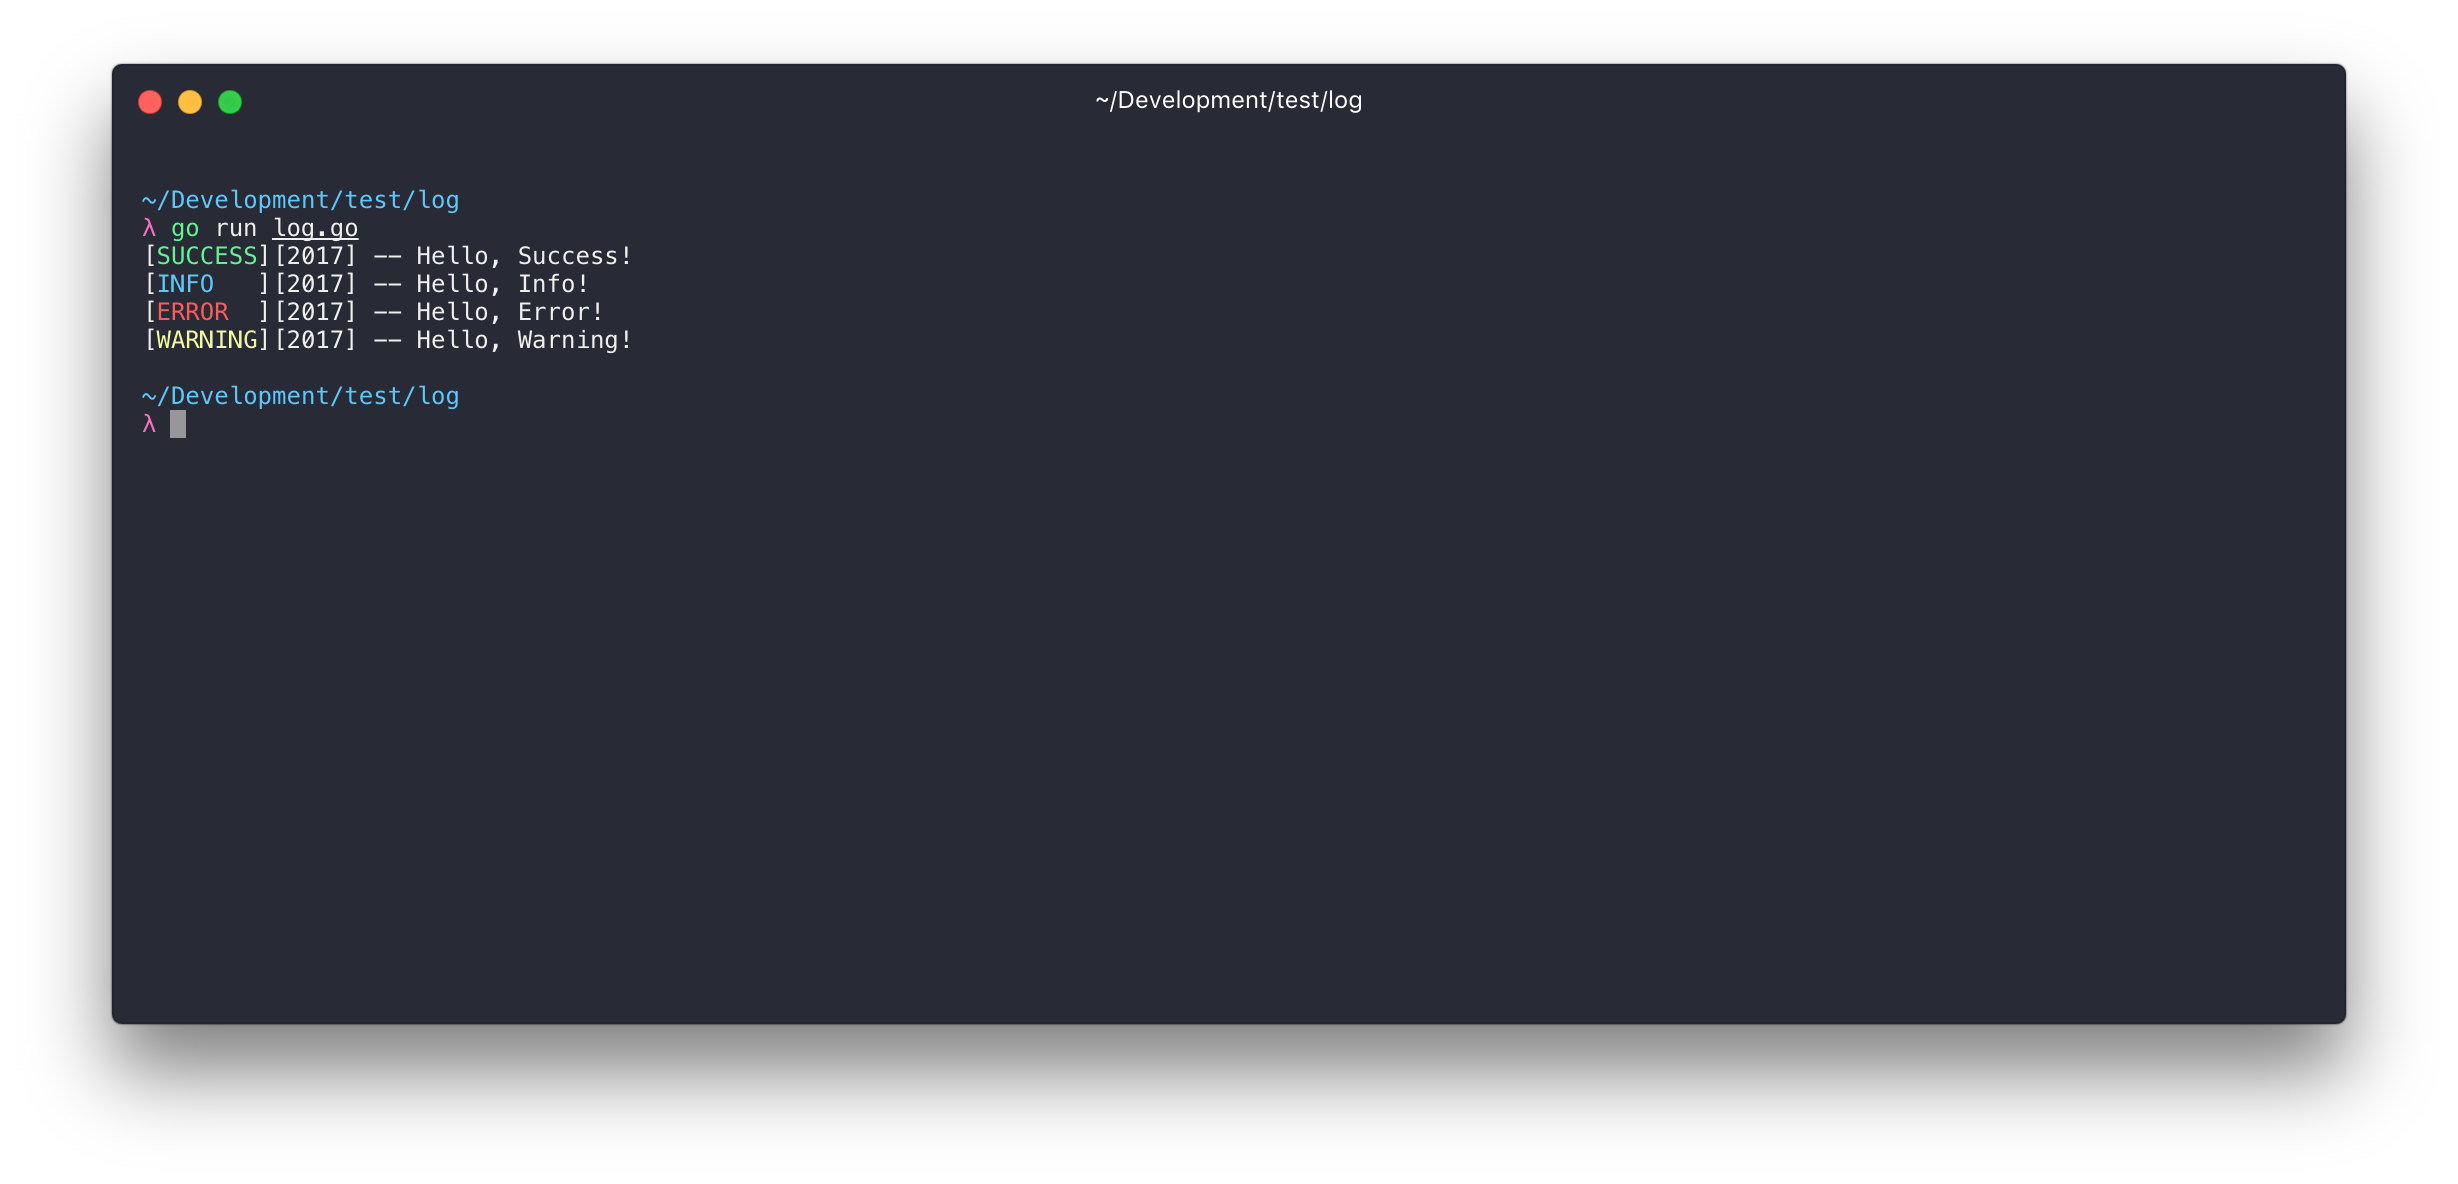
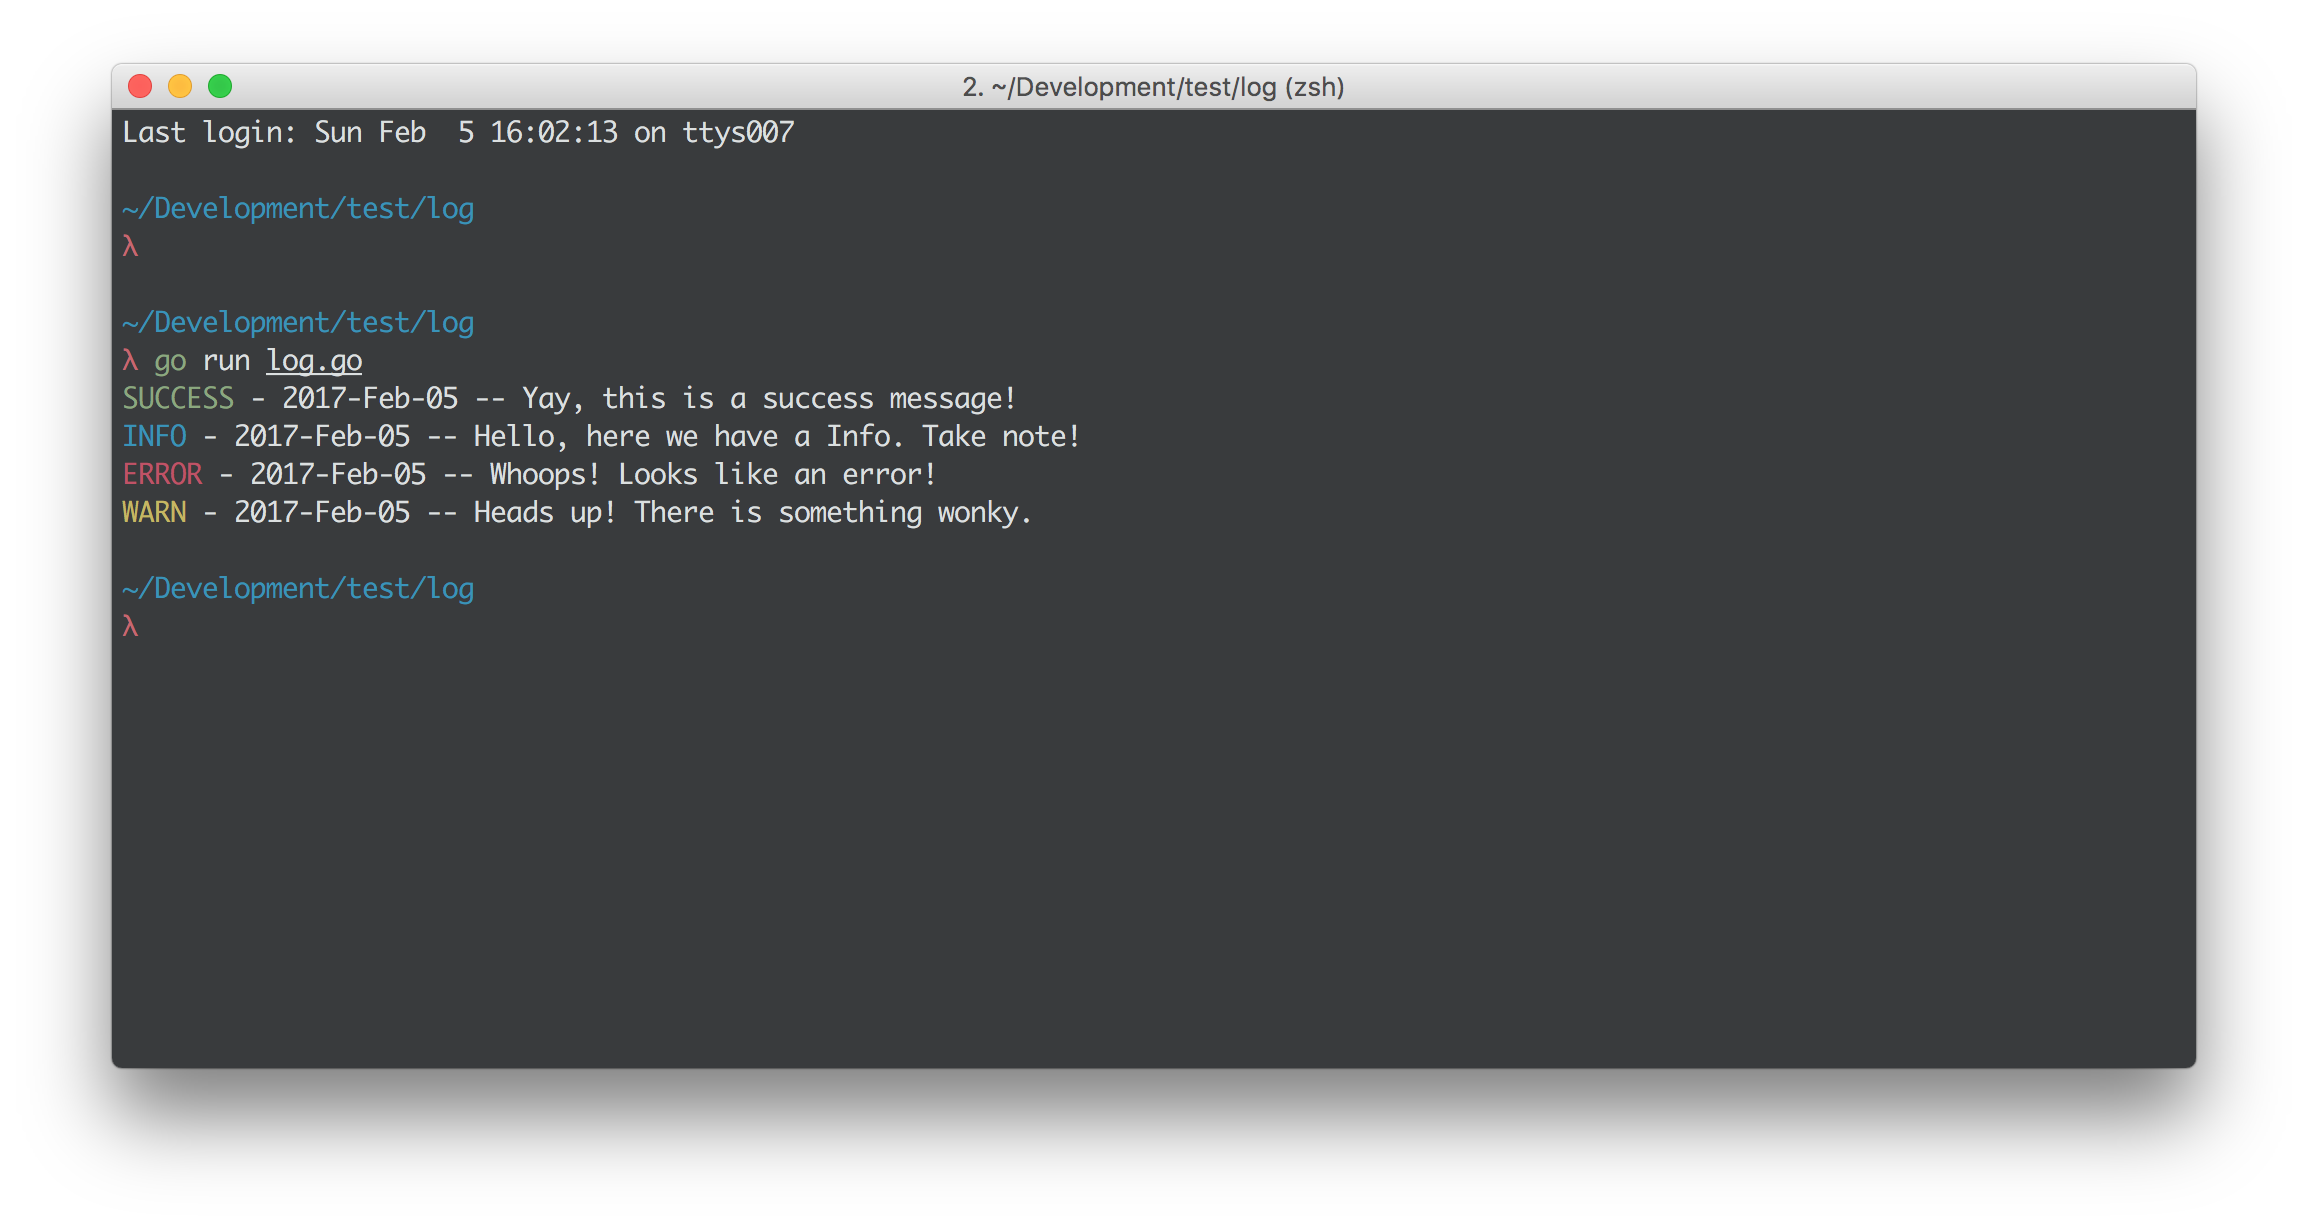
Add doc.go; Add new screenshot; Add more comments

Changed region(s): [[0.0312, 0.0312, 0.9671, 0.875]]

diff --git a/colog.go b/colog.go
@@ -105,7 +105,16 @@ func extendDefaultConfig(settings map[string]string) map[string]string {
 	return config
 }
 
-// Create a new Logger with settings.
+// Create a new Colog instance by providing settings as map[string]string
+// All fields of the Colog struct are valid parameters
+//
+// Example
+// 		config = make(map[string]string)
+// 	 	config["ErrorLabel"] = "ERROR"
+//		config["TimeFormat"] = "2006-Jan-2"
+//		Log := colog.NewColog(config)
+//
+// All not configured values will use the default values.
 func NewColog(settings map[string]string) Colog {
 	fullConfig := extendDefaultConfig(settings)
 	log := Colog{}
@@ -113,5 +122,4 @@ func NewColog(settings map[string]string) Colog {
 		log.Set(key, value)
 	}
 	return log
-
 }

diff --git a/doc.go b/doc.go
@@ -1,0 +1,4 @@
+/*
+Colog implements a simple wrapper around https://github.com/fatih/color to provide colored log messages.
+*/
+package colog

diff --git a/README.md b/README.md
@@ -1,6 +1,8 @@
 # Colog
 > Colorful terminal logs
 
+[![GoDoc](https://godoc.org/github.com/kevingimbel/colog?status.svg)](https://godoc.org/github.com/kevingimbel/colog)
+
 Create colorful logs in terminals. Wrapper around [github.com/fatih/color](https://github.com/fatih/color/).
 
 ### Example
@@ -13,15 +15,23 @@ import (
 	"github.com/kevingimbel/colog"
 )
 
-// Create a new Log instance
-var Log = colog.Colog{LogFormat: "[%s][%s] -- %s", TimeFormat: "2006"}
+var logConfig = make(map[string]string)
+
+// Assign the configuration inside the init function
+// This is run before main
+func init() {
+	logConfig["TimeFormat"] = "2006"
+	logConfig["LogFormat"] = "[%s][%s] -- %s"
+}
 
 func main() {
-// Use it.
-	fmt.Println(Log.Success("Hello, Success!"))
-	fmt.Println(Log.Info("Hello, Info!"))
-	fmt.Println(Log.Error("Hello, Error!"))
-	fmt.Println(Log.Warn("Hello, Warning!"))
+	// Create a new Logger with the config assigned above
+	Log := colog.NewColog(logConfig)
+
+	fmt.Println(Log.Success("Yay, this is a success message!"))
+	fmt.Println(Log.Info("Hello, here we have a Info. Take note!"))
+	fmt.Println(Log.Error("Whoops! Looks like an error!"))
+	fmt.Println(Log.Warn("Heads up! There is something wonky."))
 }
 ```
 
@@ -29,48 +39,28 @@ func main() {
 
 ## API
 
+You can find the API documentation on [godoc.org](https://godoc.org/github.com/kevingimbel/colog)
+
 ### `Colog` struct
 
 ```go
 type Colog struct {
-	LogFormat  string
-	TimeFormat string
+	LogFormat    string
+	TimeFormat   string
+	InfoLabel    string
+	ErrorLabel   string
+	WarnLabel    string
+	SuccessLabel string
 }
 ```
 
-`LogFormat` is a string passed to `fmt.Sprintf` with three variable strings in the following order:
-
-- Log type (WARN, SUCCESS, ERROR, INFO)
-- Time format (based on `Colog.TimeFormat`)
-- The string to log.
-
-**Examples**
+Default values:
 
 ```go
-
-var Log = colog.Colog{LogFormat: "%s - (%s) -- %s", TimeFormat: "2006"}
-Log.Warn("Some string")
-// => WARNING - 2017 - Some string
-
-var Log = colog.Colog{LogFormat: "[%s]|(%s) >> %s", TimeFormat: "2006-Jan-2"}
-Log.Error("Some string")
-// => [WARNING]|(2017-Jan-29) >> Some string
+LogFormat    "[%s][%s] %s"
+TimeFormat   "2006-Jan-2 15:04:05"
+InfoLabel    "INFO"
+ErrorLabel   "ERROR"
+WarnLabel    "WARN"
+SuccessLabel "SUCCESS"
 ```
-
-## Functions
-
-### `Info(str string) string`
-
-Creates a blue colored log output. Makes use of `LogFormat` and `TimeFormat`.
-
-### `Success(str string) string`
-
-Creates a green colored log output. Makes use of `LogFormat` and `TimeFormat`.
-
-### `Warn(str string) string`
-
-Creates a yellow colored log output. Makes use of `LogFormat` and `TimeFormat`.
-
-### `Error(str string) string`
-
-Creates a red colored log output. Makes use of `LogFormat` and `TimeFormat`.
